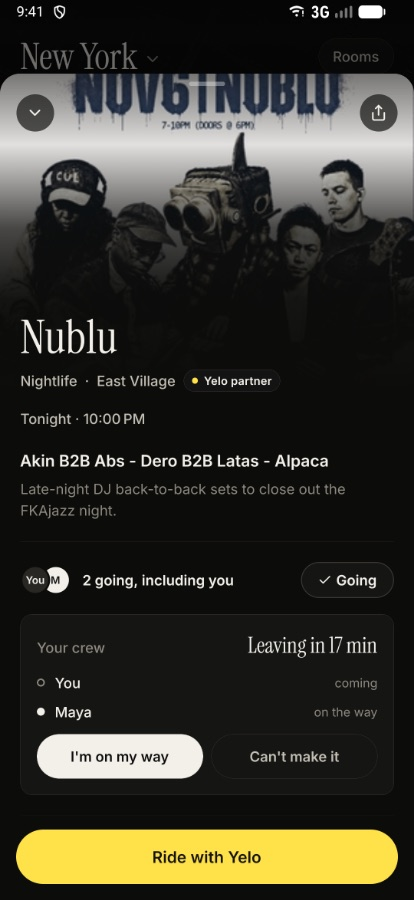
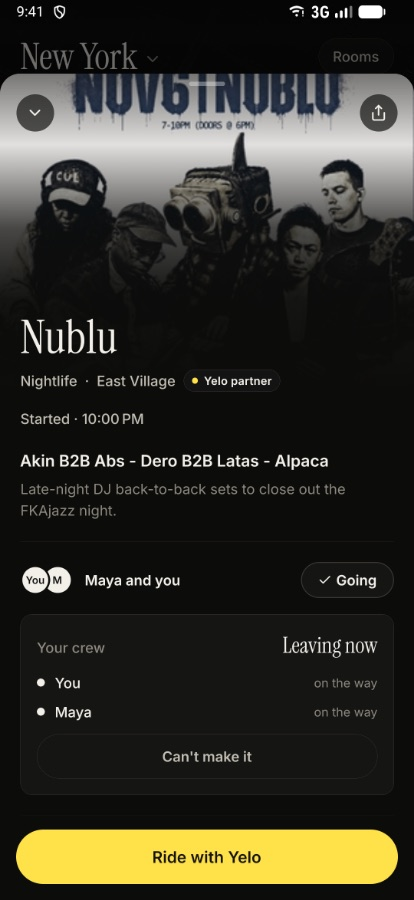
Ride there and Head out together shots: current app (friends named, consistent initials)

diff --git a/site/index.html b/site/index.html
@@ -175,9 +175,9 @@
     <div class="screens">
       <figure><img src="shot-map-la.jpg" alt="Los Angeles tonight: numbered bubbles across the city, a bubble ringed for a Yelo partner, and a card for Gold-Diggers at 10 PM" loading="lazy" width="414" height="900">
         <figcaption><b>One map for the night</b>New York and Los Angeles, refreshed every few minutes and grouped so the map stays readable.</figcaption></figure>
-      <figure><img src="shot-spot.jpg" alt="Nublu tonight at 10 PM, a Yelo partner: 2 going including you, your crew leaving in 17 minutes with Maya on the way, and Ride with Yelo" loading="lazy" width="414" height="900">
+      <figure><img src="shot-spot.jpg" alt="Nublu, a Yelo partner, started at 10 PM: Maya and you are going, your crew is leaving now and both of you are on the way, and Ride with Yelo" loading="lazy" width="414" height="900">
         <figcaption><b>Ride there</b>Each spot shows the time, the address, which friends are going, and the ride there with its price.</figcaption></figure>
-      <figure><img src="shot-crew.jpg" alt="Your crews: Nublu, leaving in 17 minutes, 2 coming and 1 on the way, with Can\'t make it and I\'m on my way; below, start a crew or join one from a link" loading="lazy" width="414" height="900">
+      <figure><img src="shot-crew.jpg" alt="Your crews: Nublu, leaving now, 2 coming and everyone on the way, with Can't make it and Open ride; below, start a crew or join one from a link" loading="lazy" width="414" height="900">
         <figcaption><b>Head out together</b>Start a crew, send the link, and see who's coming and who's on the way.</figcaption></figure>
       <figure><img src="shot-rooms.jpg" alt="Rooms worth pitching in New York: Pete's Candy Store first, which riders opened this week, then The House on Locust and KEYBAR, each with neighbourhood, type, capacity and a contact button" loading="lazy" width="414" height="900">
         <figcaption><b>Rooms worth pitching</b>Venues that could host a Yelo night, with capacity, a quiet weeknight, a contact, and which ones riders already open.</figcaption></figure>
